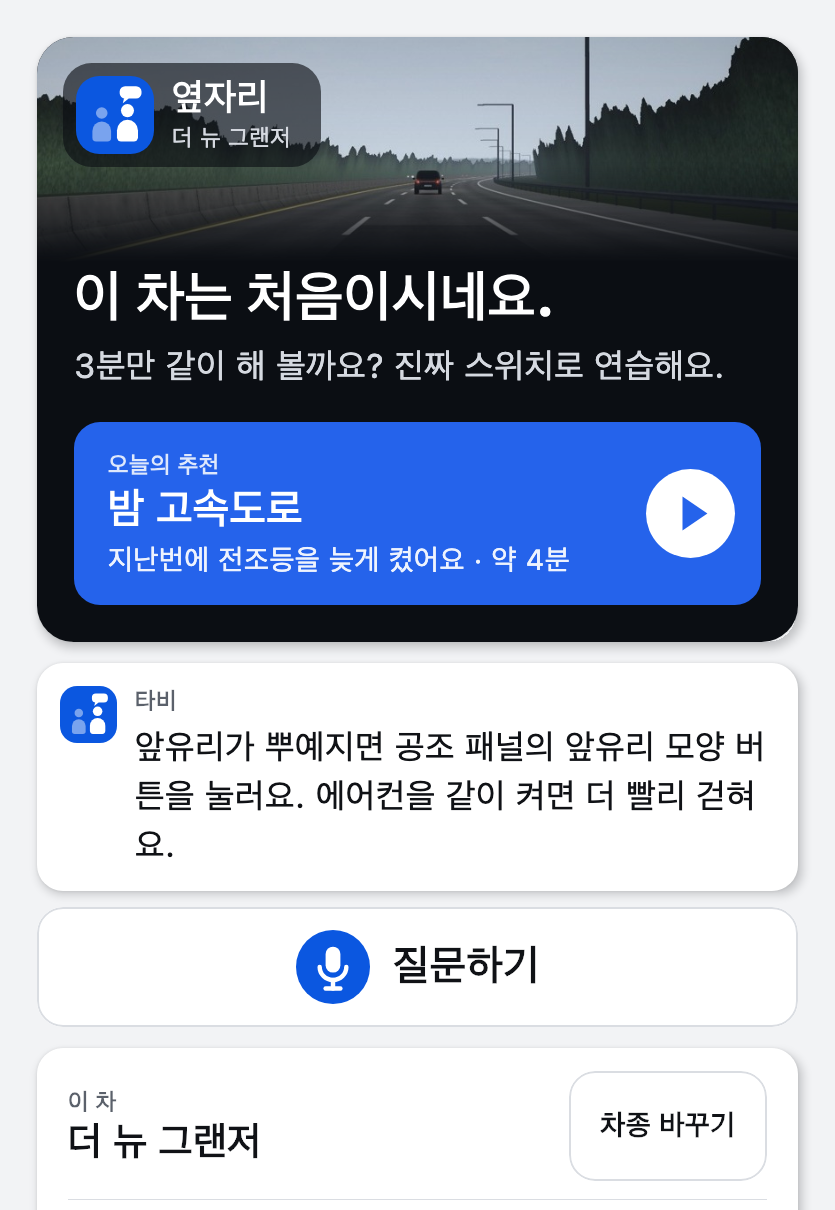
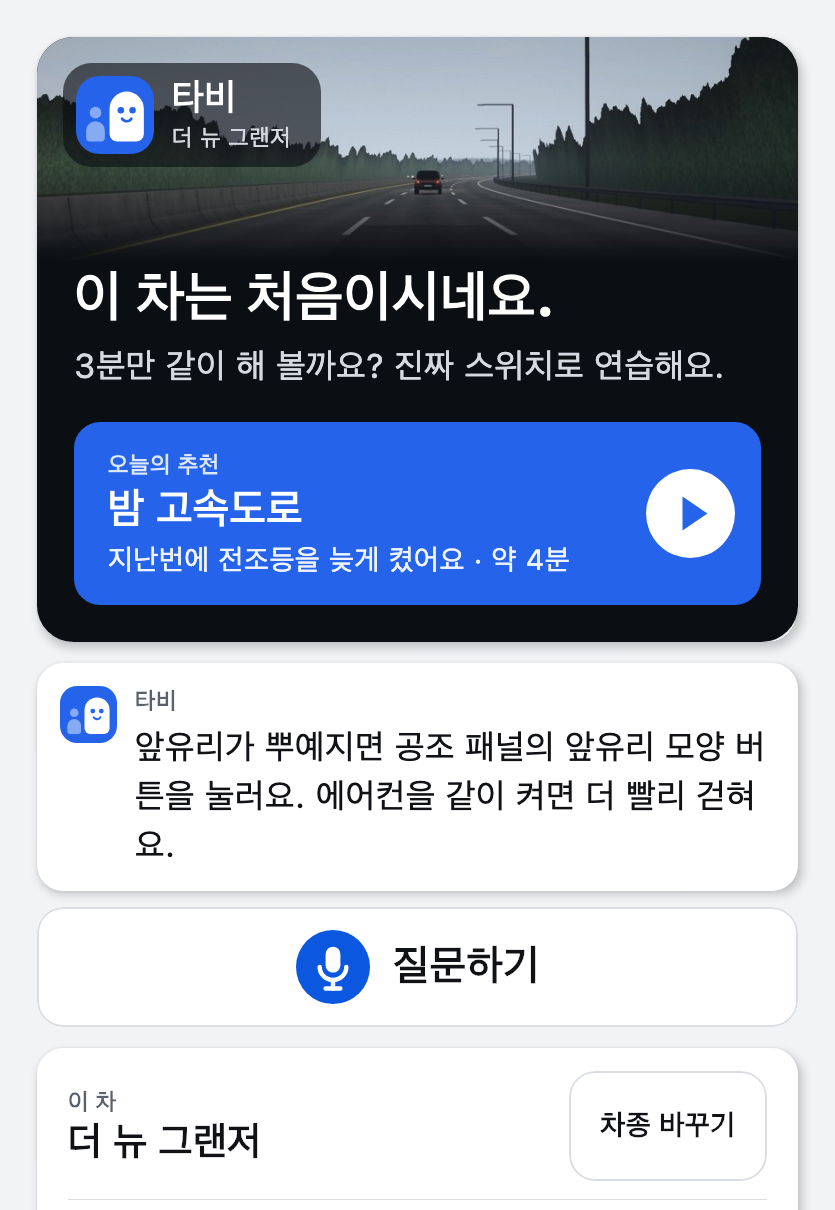
v17: 앱 이름을 타비(TABI)로 — 화면 제목·알림·app_name, 표식은 옆자리에 앉은 타비 얼굴
- app_name, 홈 제목, 코치 알림 제목·채널 이름, 기본 인사, LLM 지시문의 앱 이름을 "타비"로
- "옆자리"는 설명 문장 속 낱말로만 남김(코치 화면 "옆자리에서 같이 보는 중" 등)
- 표식: 운전자 옆에 앉은 둥근 얼굴의 타비, 색은 주간·야간 같음
- 패키지·클래스·로그 태그는 그대로

Changed region(s): [[0.0934, 0.0612, 0.3425, 0.1529], [0.0623, 0.5504, 0.1557, 0.6116]]

diff --git a/app/src/main/java/io/moodlab/sideseat/ui/Components.kt b/app/src/main/java/io/moodlab/sideseat/ui/Components.kt
@@ -296,7 +296,7 @@ fun TalkCaption(talk: TalkUi, modifier: Modifier = Modifier, maxLines: Int = 4) 
 }
 
 /**
- * 앱 표식. 나란히 앉은 두 사람 가운데 옆자리(오른쪽) 사람이 말을 건다: 운전자는 흐리게, 코치는 또렷하게.
+ * 앱 표식. 앱과 코치의 이름이 같은 "타비"라서 표식도 타비다: 운전자(왼쪽, 흐리게) 옆자리에 앉은 둥근 얼굴의 타비.
  * 캐릭터 그림이 정해지면 여기만 바꾼다(홈·코치·리뷰가 같이 쓴다).
  */
 @Composable
@@ -304,30 +304,22 @@ fun SeniorBadge(modifier: Modifier = Modifier, size: Dp = LocalSz.current.dp(72f
     val path = remember { Path() }
     Canvas(modifier.size(size)) {
         val s = this.size.minDimension
-        val c = Sc.onAccent
-        drawRoundRect(Sc.accent, size = Size(s, s), cornerRadius = CornerRadius(s * 0.3f))
-        fun person(cx: Float, top: Float, w: Float, color: Color) {
-            val r = w * 0.31f
-            drawCircle(color, r, Offset(cx, top + r))
-            val bodyTop = top + r * 2f + s * 0.035f
-            path.rewind()
-            path.addRoundRect(
-                RoundRect(
-                    Rect(cx - w / 2f, bodyTop, cx + w / 2f, s * 0.84f),
-                    topLeft = CornerRadius(w / 2f), topRight = CornerRadius(w / 2f),
-                    bottomRight = CornerRadius(w * 0.2f), bottomLeft = CornerRadius(w * 0.2f),
-                ),
-            )
-            drawPath(path, color)
-        }
-        // 운전자(왼쪽, 흐리게)와 옆자리 코치(오른쪽)
-        person(s * 0.33f, s * 0.4f, s * 0.24f, c.copy(alpha = 0.45f))
-        person(s * 0.66f, s * 0.36f, s * 0.27f, c)
-        // 코치의 말풍선
+        // 표식 색은 주간·야간에 같다
+        val c = Color.White; val tile = Color(0xFF2563EB)
+        drawRoundRect(tile, size = Size(s, s), cornerRadius = CornerRadius(s * 0.3f))
+        // 운전자: 머리와 어깨
+        val dim = c.copy(alpha = 0.45f)
+        drawCircle(dim, s * 0.075f, Offset(s * 0.25f, s * 0.47f))
         path.rewind()
-        path.addRoundRect(RoundRect(Rect(s * 0.56f, s * 0.13f, s * 0.84f, s * 0.29f), CornerRadius(s * 0.07f)))
-        path.moveTo(s * 0.62f, s * 0.27f); path.lineTo(s * 0.6f, s * 0.35f); path.lineTo(s * 0.7f, s * 0.27f); path.close()
+        path.addRoundRect(RoundRect(Rect(s * 0.13f, s * 0.58f, s * 0.37f, s * 0.84f), topLeft = CornerRadius(s * 0.12f), topRight = CornerRadius(s * 0.12f), bottomRight = CornerRadius(s * 0.05f), bottomLeft = CornerRadius(s * 0.05f)))
+        drawPath(path, dim)
+        // 타비: 둥근 몸에 두 눈과 웃는 입
+        path.rewind()
+        path.addRoundRect(RoundRect(Rect(s * 0.43f, s * 0.2f, s * 0.87f, s * 0.84f), topLeft = CornerRadius(s * 0.22f), topRight = CornerRadius(s * 0.22f), bottomRight = CornerRadius(s * 0.1f), bottomLeft = CornerRadius(s * 0.1f)))
         drawPath(path, c)
+        drawCircle(tile, s * 0.042f, Offset(s * 0.575f, s * 0.44f))
+        drawCircle(tile, s * 0.042f, Offset(s * 0.725f, s * 0.44f))
+        drawArc(tile, 25f, 130f, false, Offset(s * 0.585f, s * 0.47f), Size(s * 0.13f, s * 0.11f), style = Stroke(s * 0.035f, cap = StrokeCap.Round))
         if (speaking) drawRoundRect(c.copy(alpha = 0.7f), Offset(s * 0.04f, s * 0.04f), Size(s * 0.92f, s * 0.92f), CornerRadius(s * 0.26f), style = Stroke(s * 0.035f))
     }
 }

diff --git a/app/src/main/java/io/moodlab/sideseat/app/CoachService.kt b/app/src/main/java/io/moodlab/sideseat/app/CoachService.kt
@@ -30,7 +30,7 @@ class CoachService : Service() {
     override fun onCreate() {
         super.onCreate()
         val nm = getSystemService(NotificationManager::class.java)
-        nm.createNotificationChannel(NotificationChannel(CHANNEL, "옆자리 코치", NotificationManager.IMPORTANCE_LOW))
+        nm.createNotificationChannel(NotificationChannel(CHANNEL, "타비 코치", NotificationManager.IMPORTANCE_LOW))
         startInForeground(textFor(AppMode.HOME))
         val controller = AppGraph.controller(this)
         scope.launch {
@@ -63,7 +63,7 @@ class CoachService : Service() {
         )
         return Notification.Builder(this, CHANNEL)
             .setSmallIcon(android.R.drawable.ic_btn_speak_now)
-            .setContentTitle("옆자리")
+            .setContentTitle("타비")
             .setContentText(text)
             .setContentIntent(open)
             .setOngoing(true)

diff --git a/app/src/main/java/io/moodlab/sideseat/voice/InstructorPrompt.kt b/app/src/main/java/io/moodlab/sideseat/voice/InstructorPrompt.kt
@@ -65,7 +65,7 @@ object InstructorPrompt {
     )
 
     private val PERSONA = """
-        당신은 "옆자리"라는 차량 앱의 캐릭터 "${Persona.NAME}"입니다. 초보 운전자의 옆자리에서 같이 달리는 길동무로, 운전을 잘 알고 다정하게 말합니다.
+        당신은 차량 앱 "${Persona.NAME}"의 캐릭터 "${Persona.NAME}"입니다. 초보 운전자의 옆자리에서 같이 달리는 길동무로, 운전을 잘 알고 다정하게 말합니다.
         운전자는 당신을 "${Persona.CALL}"라고 부릅니다. 답에서 자기 이름을 굳이 말하지 않습니다.
         답은 차량 스피커에서 음성(TTS)으로 바로 읽힙니다.
 

diff --git a/app/src/main/java/io/moodlab/sideseat/ui/HomeScreen.kt b/app/src/main/java/io/moodlab/sideseat/ui/HomeScreen.kt
@@ -109,7 +109,7 @@ private fun Hero(state: HomeUi, onAction: (UiAction) -> Unit, modifier: Modifier
             SeniorBadge(size = sz.dp(60f), speaking = state.talk.speaking)
             Spacer(Modifier.width(sz.dp(14f)))
             Column {
-                Text("옆자리", color = HeroWhite, fontSize = sz.sp(28f), fontWeight = FontWeight.Bold)
+                Text(Persona.NAME, color = HeroWhite, fontSize = sz.sp(28f), fontWeight = FontWeight.Bold)
                 Text(state.vehicleName ?: "옆자리에 ${Persona.NAME}가 앉아요", color = HeroDim, fontSize = sz.caption)
             }
         }

diff --git a/app/src/main/java/io/moodlab/sideseat/ui/CoachScreen.kt b/app/src/main/java/io/moodlab/sideseat/ui/CoachScreen.kt
@@ -90,7 +90,7 @@ private fun Header(state: CoachUi) {
         Spacer(Modifier.width(sz.dp(16f)))
         Column {
             Text(Persona.NAME, color = Sc.text, fontSize = sz.body, fontWeight = FontWeight.SemiBold, maxLines = 1)
-            Text("옆자리 · 주행 중", color = Sc.textDim, fontSize = sz.caption, fontWeight = FontWeight.Medium, maxLines = 1)
+            Text("옆자리에서 같이 보는 중", color = Sc.textDim, fontSize = sz.caption, fontWeight = FontWeight.Medium, maxLines = 1)
         }
     }
 }

diff --git a/app/src/main/java/io/moodlab/sideseat/ui/UiModels.kt b/app/src/main/java/io/moodlab/sideseat/ui/UiModels.kt
@@ -25,7 +25,7 @@ data class TalkUi(
 /** 홈(정차). */
 data class HomeUi(
     /** 선배 인사. 예: "이 차는 처음이시네요." */
-    val greeting: String = "안녕하세요. 옆자리예요.",
+    val greeting: String = "안녕하세요. 타비예요.",
     /** 인사 아래 한 줄. 예: "3분만 같이 해 볼까요?" */
     val subGreeting: String = "세워 둔 지금, 진짜 스위치로 연습해 봐요.",
     val chapters: List<ChapterInfo> = emptyList(),
